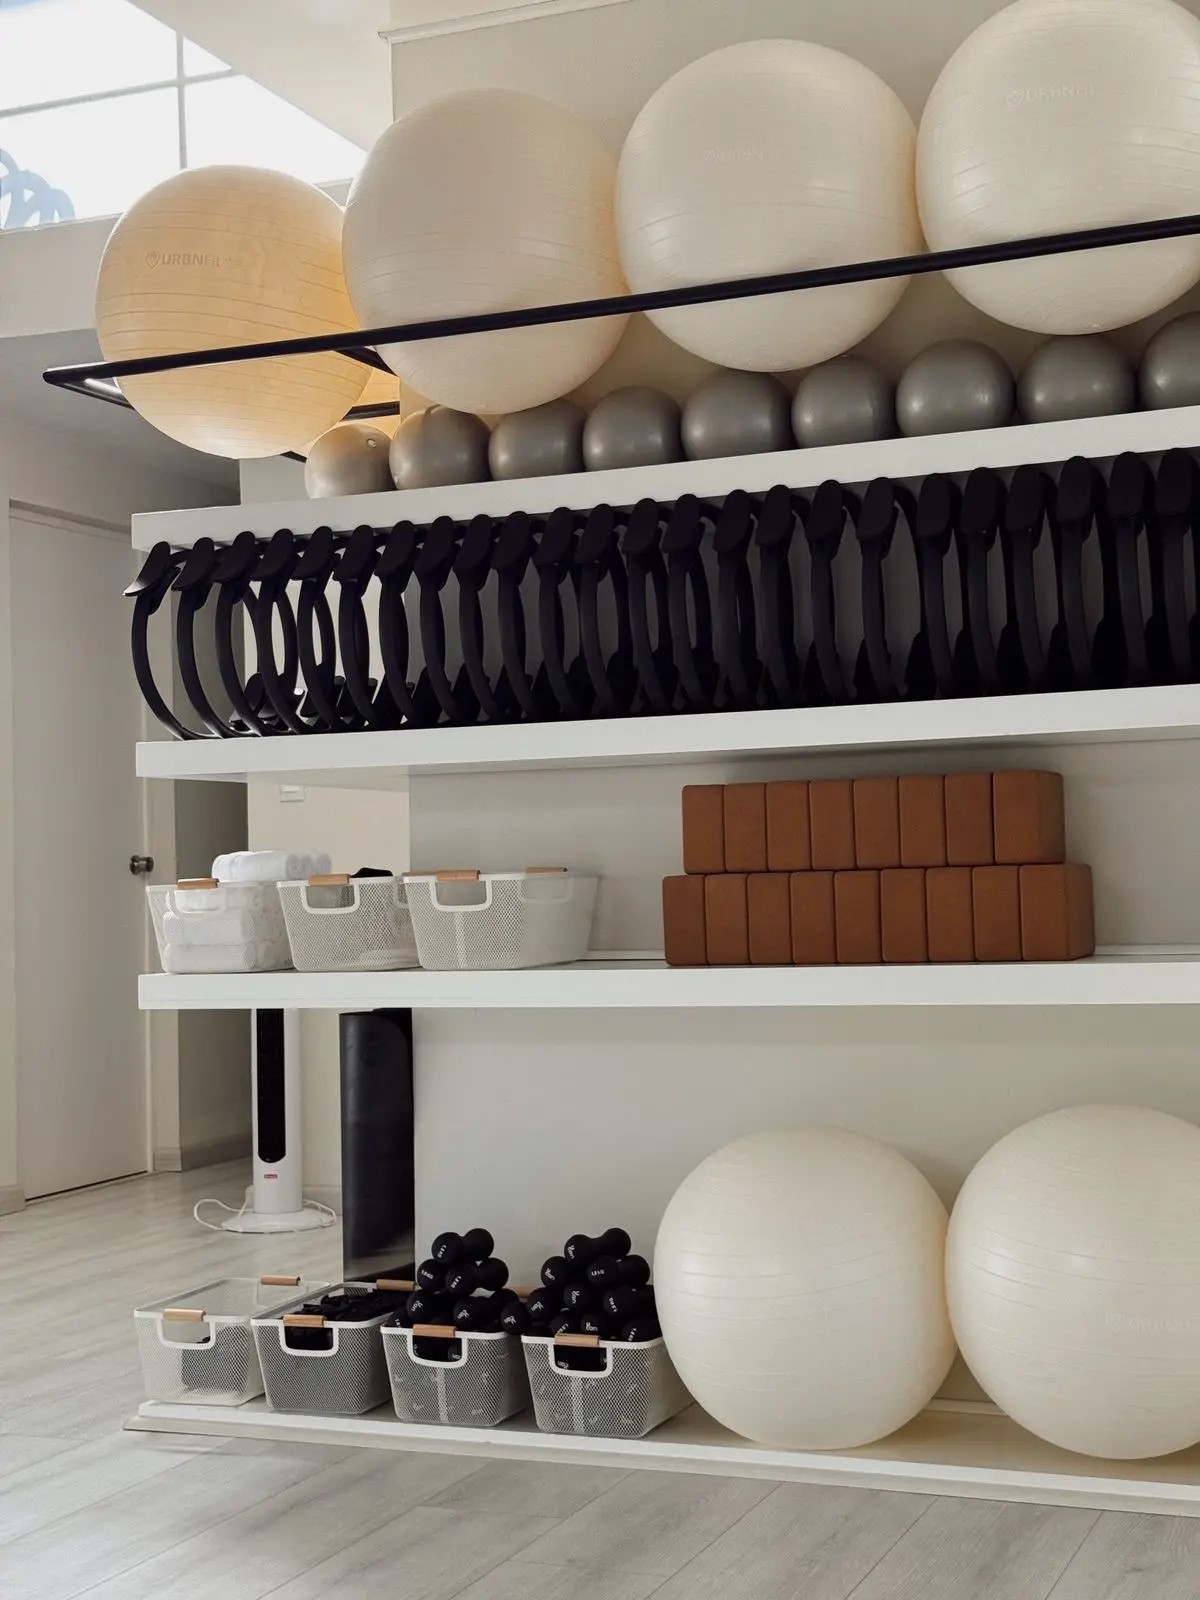
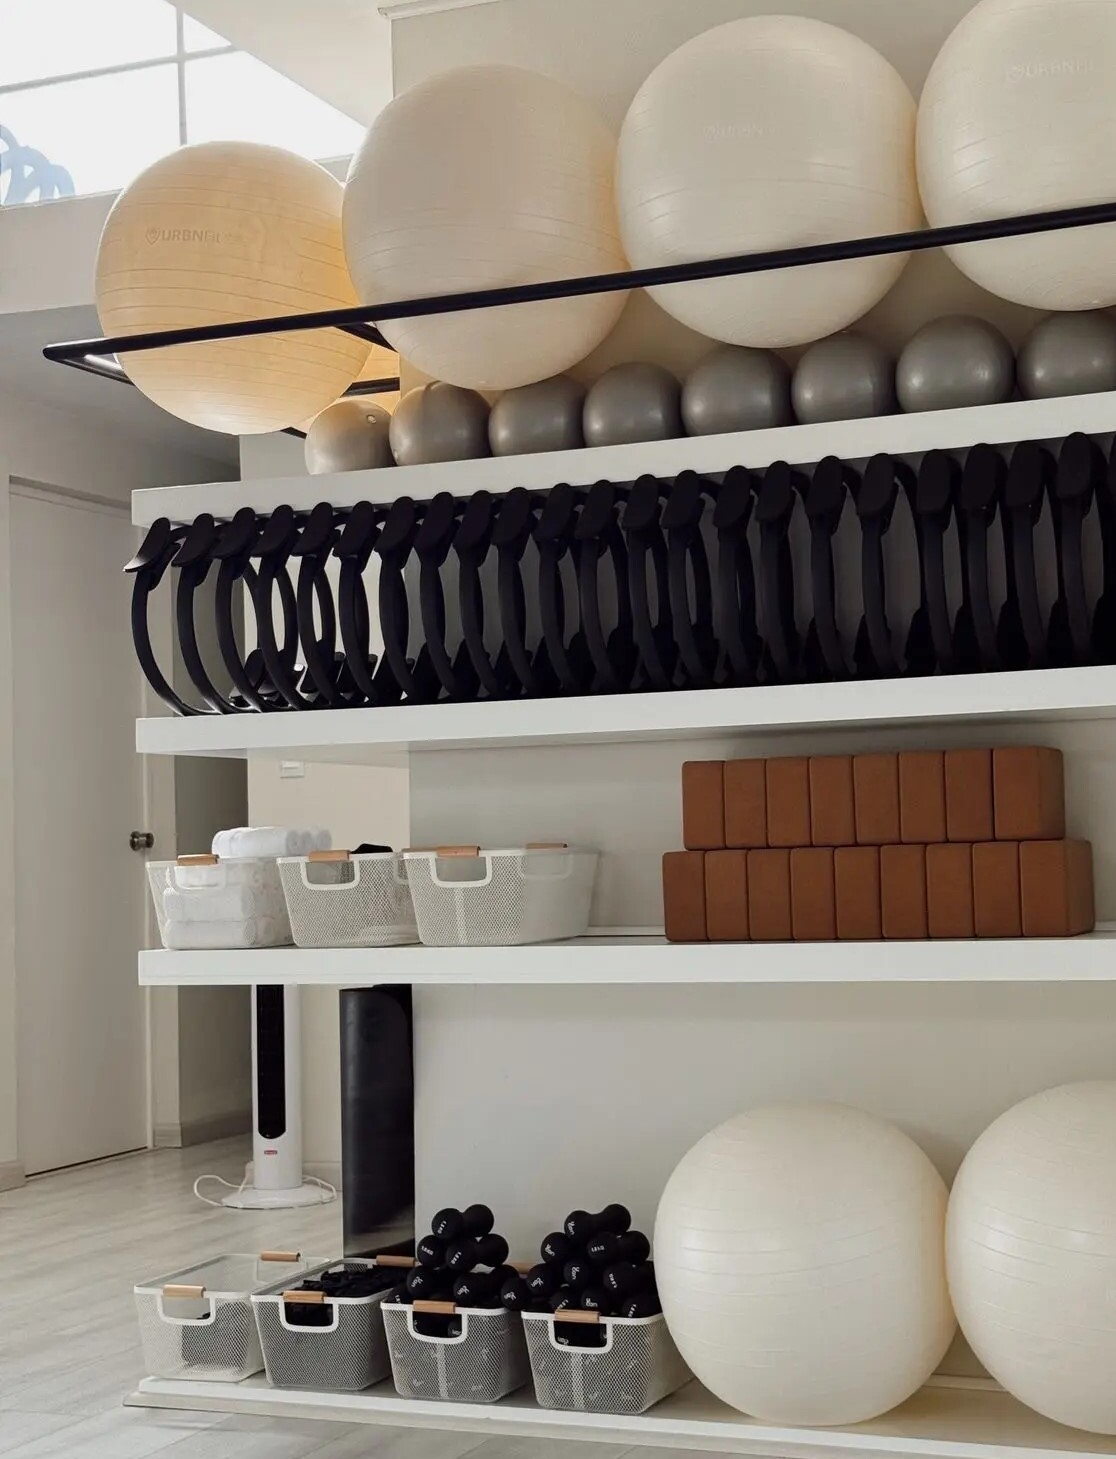
Update overview hero photo and mobile layout

diff --git a/css/pages.css b/css/pages.css
@@ -337,10 +337,10 @@
 
 @media (max-width: 820px) {
   .welcome-screen, .auth-layout, .hero-grid, .editorial-layout, .month-hero, .rating-hero, .profile-hero, .profile-content { grid-template-columns: 1fr; }
-  .overview-page .hero-grid { grid-template-columns: 1fr; }
+  .overview-page .hero-grid { grid-template-columns: minmax(0, 1.18fr) minmax(0, .82fr); }
   .welcome-photo, .hero-photo, .month-photo, .rating-photo { border-left: 0; border-top: 1px solid var(--ink); }
-  .overview-page .hero-photo { min-height: 0; }
-  .overview-page .hero-photo img { height: auto; object-fit: contain; }
+  .overview-page .hero-photo { min-height: 280px; border-top: 0; border-left: 1px solid var(--ink); }
+  .overview-page .hero-photo img { height: 100%; object-fit: cover; }
   .welcome-photo { min-height: 420px; }
   .welcome-photo img { object-position: center 24%; }
   .editorial-column + .editorial-column { border-left: 0; border-top: 1px solid var(--ink); }
@@ -374,10 +374,13 @@
   .hero-copy { padding: 24px 18px; }
   .hero-copy h1 { font-size: 2.55rem; }
   .hero-photo { min-height: 185px; }
+  .overview-page .hero-copy { padding: 18px 12px; }
   .overview-page .hero-copy h1 span,
   .overview-page .hero-copy .intro span { white-space: normal; }
-  .overview-page .hero-copy h1 { font-size: clamp(1.75rem, 8vw, 2.15rem); line-height: 1.06; }
-  .overview-page .hero-photo { min-height: 0; }
+  .overview-page .hero-copy h1 { font-size: clamp(1.15rem, 5.5vw, 1.8rem); line-height: 1.06; }
+  .overview-page .hero-copy .intro { margin-block: 10px; font-size: clamp(.68rem, 2.8vw, .82rem); line-height: 1.4; }
+  .overview-page .overview-date { font-size: clamp(.72rem, 3vw, .88rem); }
+  .overview-page .hero-photo { min-height: 260px; }
   .date-navigator { padding-inline: 14px; }
   .activity-card { grid-template-columns: 28px 40px minmax(0, 1fr) 78px; }
   .activity-copy small { font-size: .75rem; }
